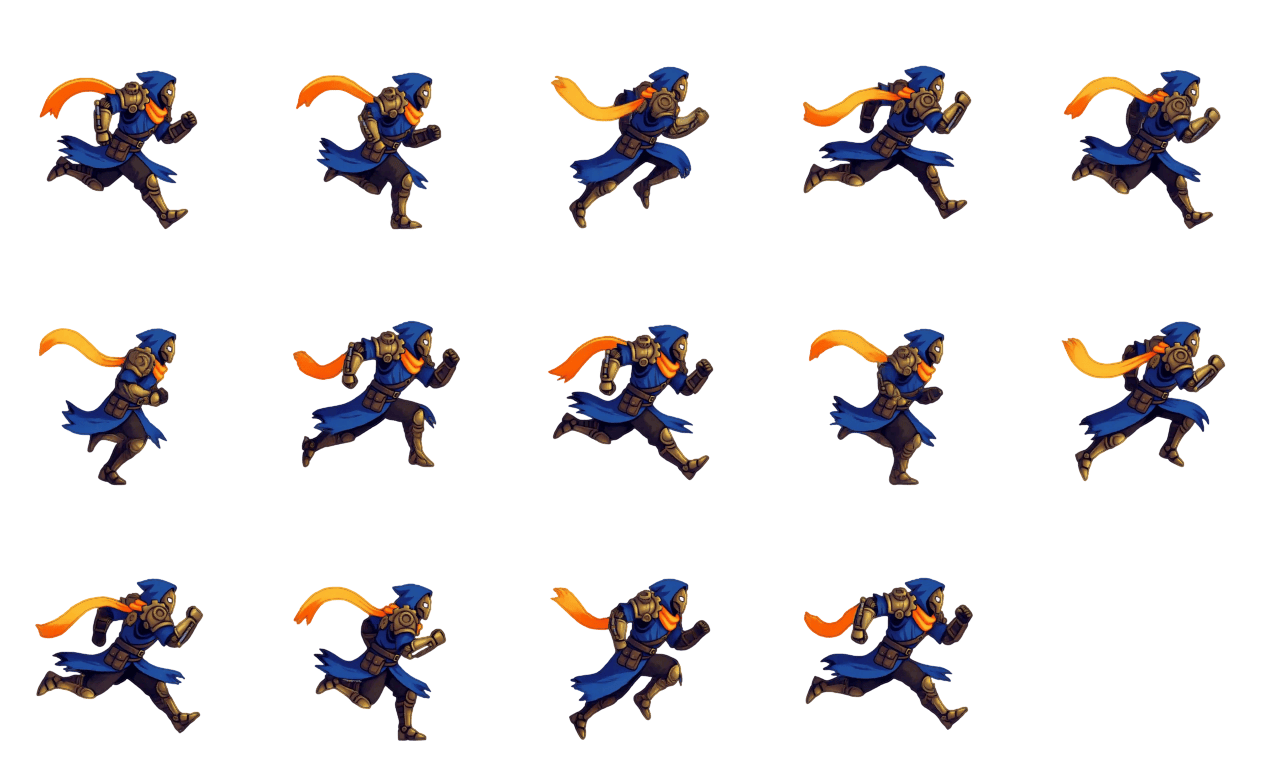
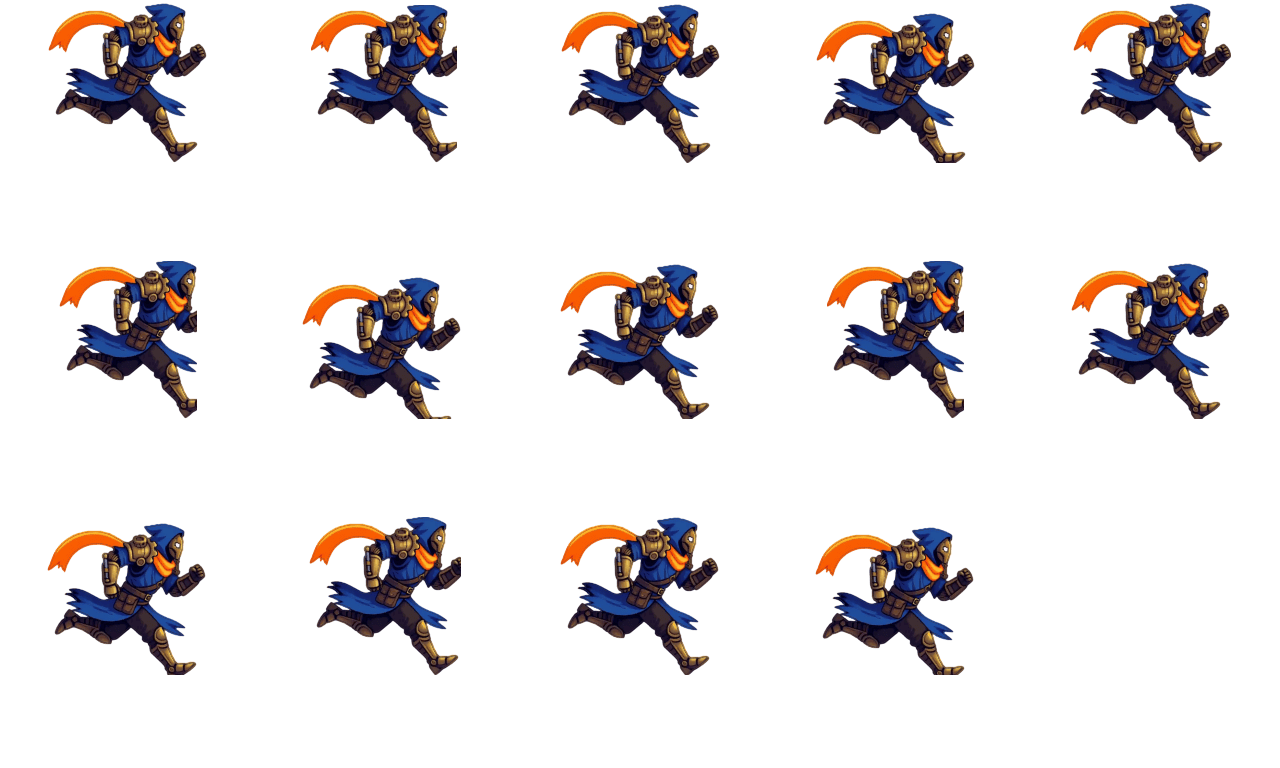
fix: remove per-anim setDisplaySize — sharp aligned all sprites, single 96x96

diff --git a/src/objects/Player.ts b/src/objects/Player.ts
@@ -252,7 +252,6 @@ export class Player extends Phaser.Physics.Arcade.Sprite {
     this.invulnerable = true;
     this.invulnerableTimer = PLAYER_CONFIG.hitInvulnerableTimeMs;
 
-    this.setDisplaySize(96, 96);
     this.anims.play('player_hit', true);
     if (knockbackDir !== 0) {
       this.setVelocityX(knockbackDir * 160);
@@ -322,7 +321,6 @@ export class Player extends Phaser.Physics.Arcade.Sprite {
       this.isDownSmashing = true;
       this.setVelocityX(0);
       this.setVelocityY(720); // Fast dive slam
-      this.setDisplaySize(88, 88);
       this.anims.play('player_atk_3', true);
       this.emit('player_downsmash_start');
       return;
@@ -392,7 +390,6 @@ export class Player extends Phaser.Physics.Arcade.Sprite {
       this.dodgeDirection = this.flipX ? -1 : 1;
       arcadeBody.allowGravity = false;
       this.setAlpha(0.6);
-      this.setDisplaySize(126, 126);
       this.anims.play('player_dodge', true);
       this.emit('player_dodge');
       return;
@@ -425,7 +422,6 @@ export class Player extends Phaser.Physics.Arcade.Sprite {
       if (mode === 'melee') {
         this.comboCount = (this.comboCount % PLAYER_CONFIG.maxCombo) + 1;
         this.comboTimer = PLAYER_CONFIG.comboWindowMs;
-        this.setDisplaySize(88, 88);
         this.anims.play(`player_atk_${this.comboCount}`, true);
 
         this.emit('player_attack_melee', {
@@ -438,7 +434,6 @@ export class Player extends Phaser.Physics.Arcade.Sprite {
       } else {
         // Ranged shooting
         this.comboCount = 0;
-        this.setDisplaySize(88, 88);
         this.anims.play('player_atk_1', true);
 
         this.emit('player_attack_ranged', {
@@ -490,21 +485,16 @@ export class Player extends Phaser.Physics.Arcade.Sprite {
     // flipped isAttacking to false before the clip actually finished.
     if (!this.isAttacking && !this.isDownSmashing && !this.isAttackAnimPlaying()) {
       if (this.isWallSliding) {
-        this.setDisplaySize(98, 98);
         this.anims.play('player_wall_grab', true);
       } else if (!onFloor) {
         if (arcadeBody.velocity.y < 0) {
-          this.setDisplaySize(130, 130);
           this.anims.play('player_jump', true);
         } else {
-          this.setDisplaySize(112, 112);
           this.anims.play('player_fall', true);
         }
       } else if (arcadeBody.velocity.x !== 0) {
-        this.setDisplaySize(126, 126);
         this.anims.play('player_run', true);
       } else {
-        this.setDisplaySize(96, 96);
         this.anims.play('player_idle', true);
       }
     }
